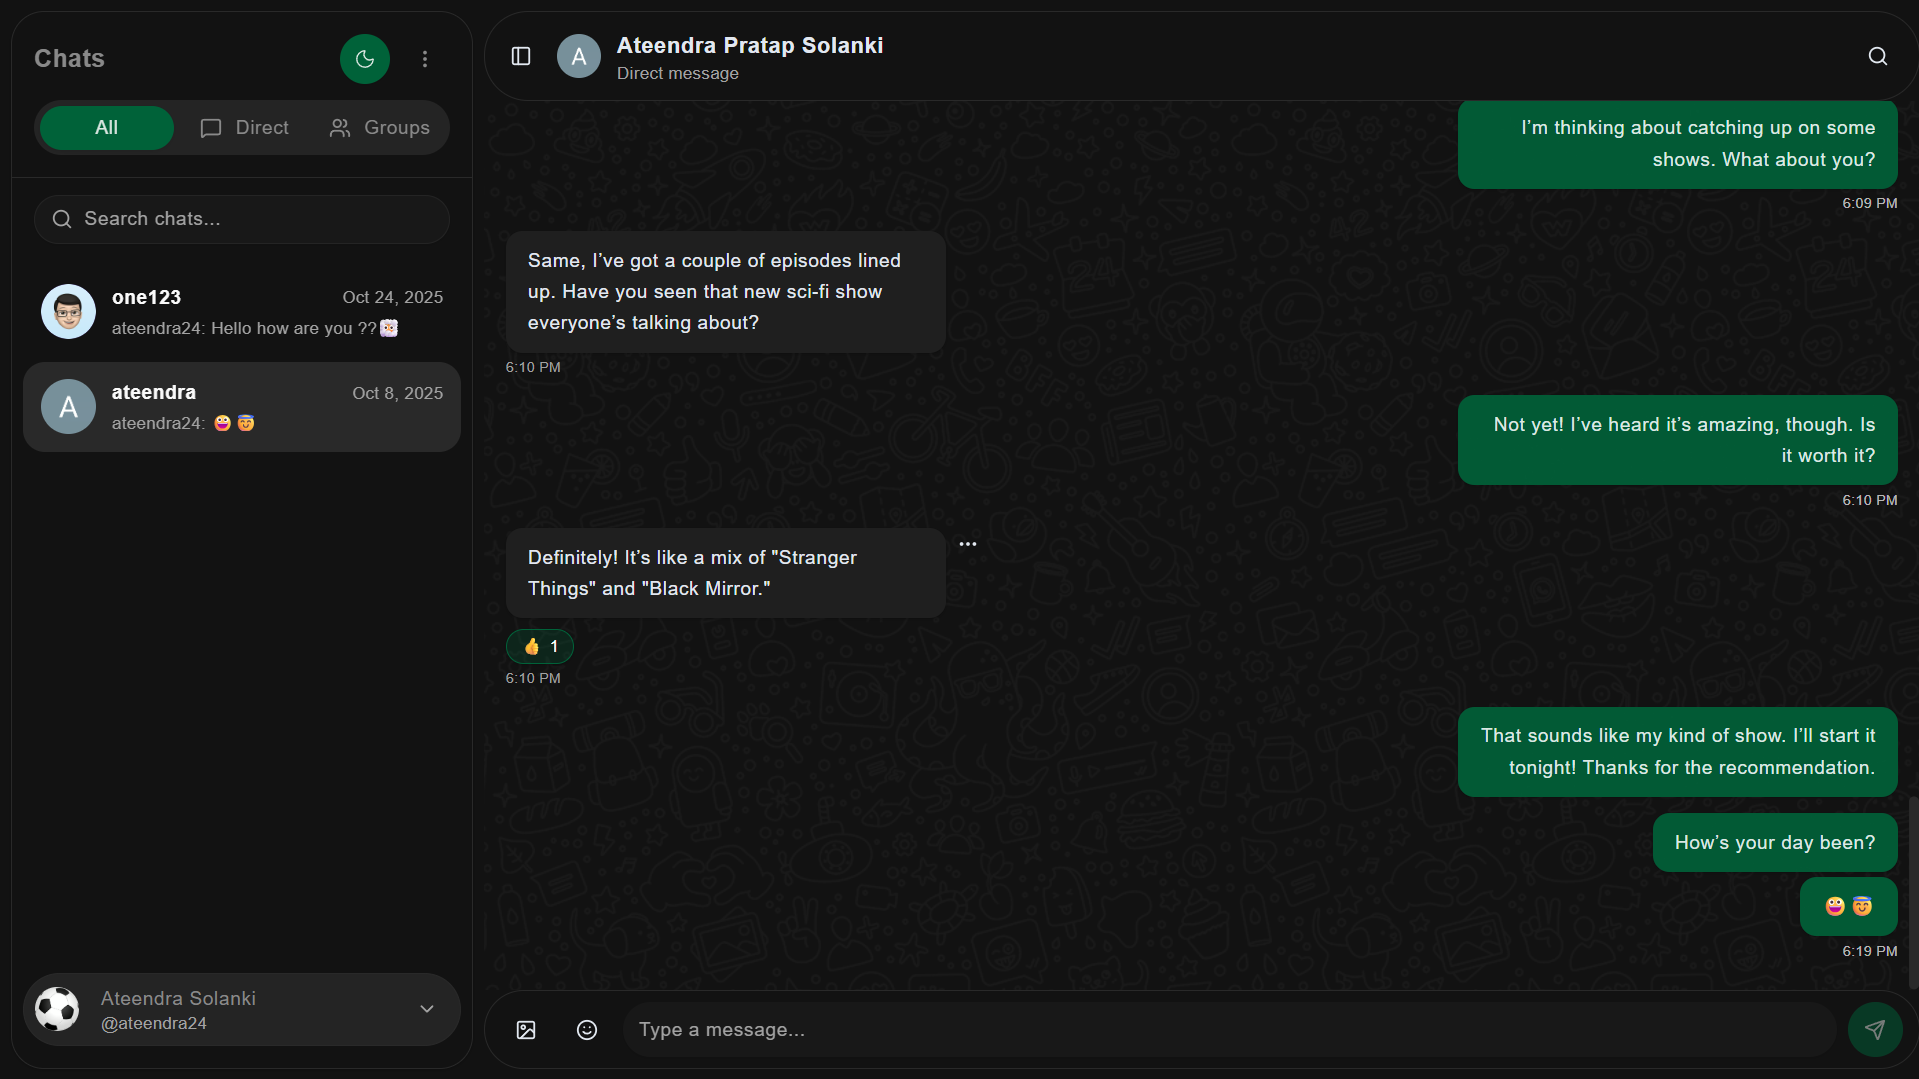
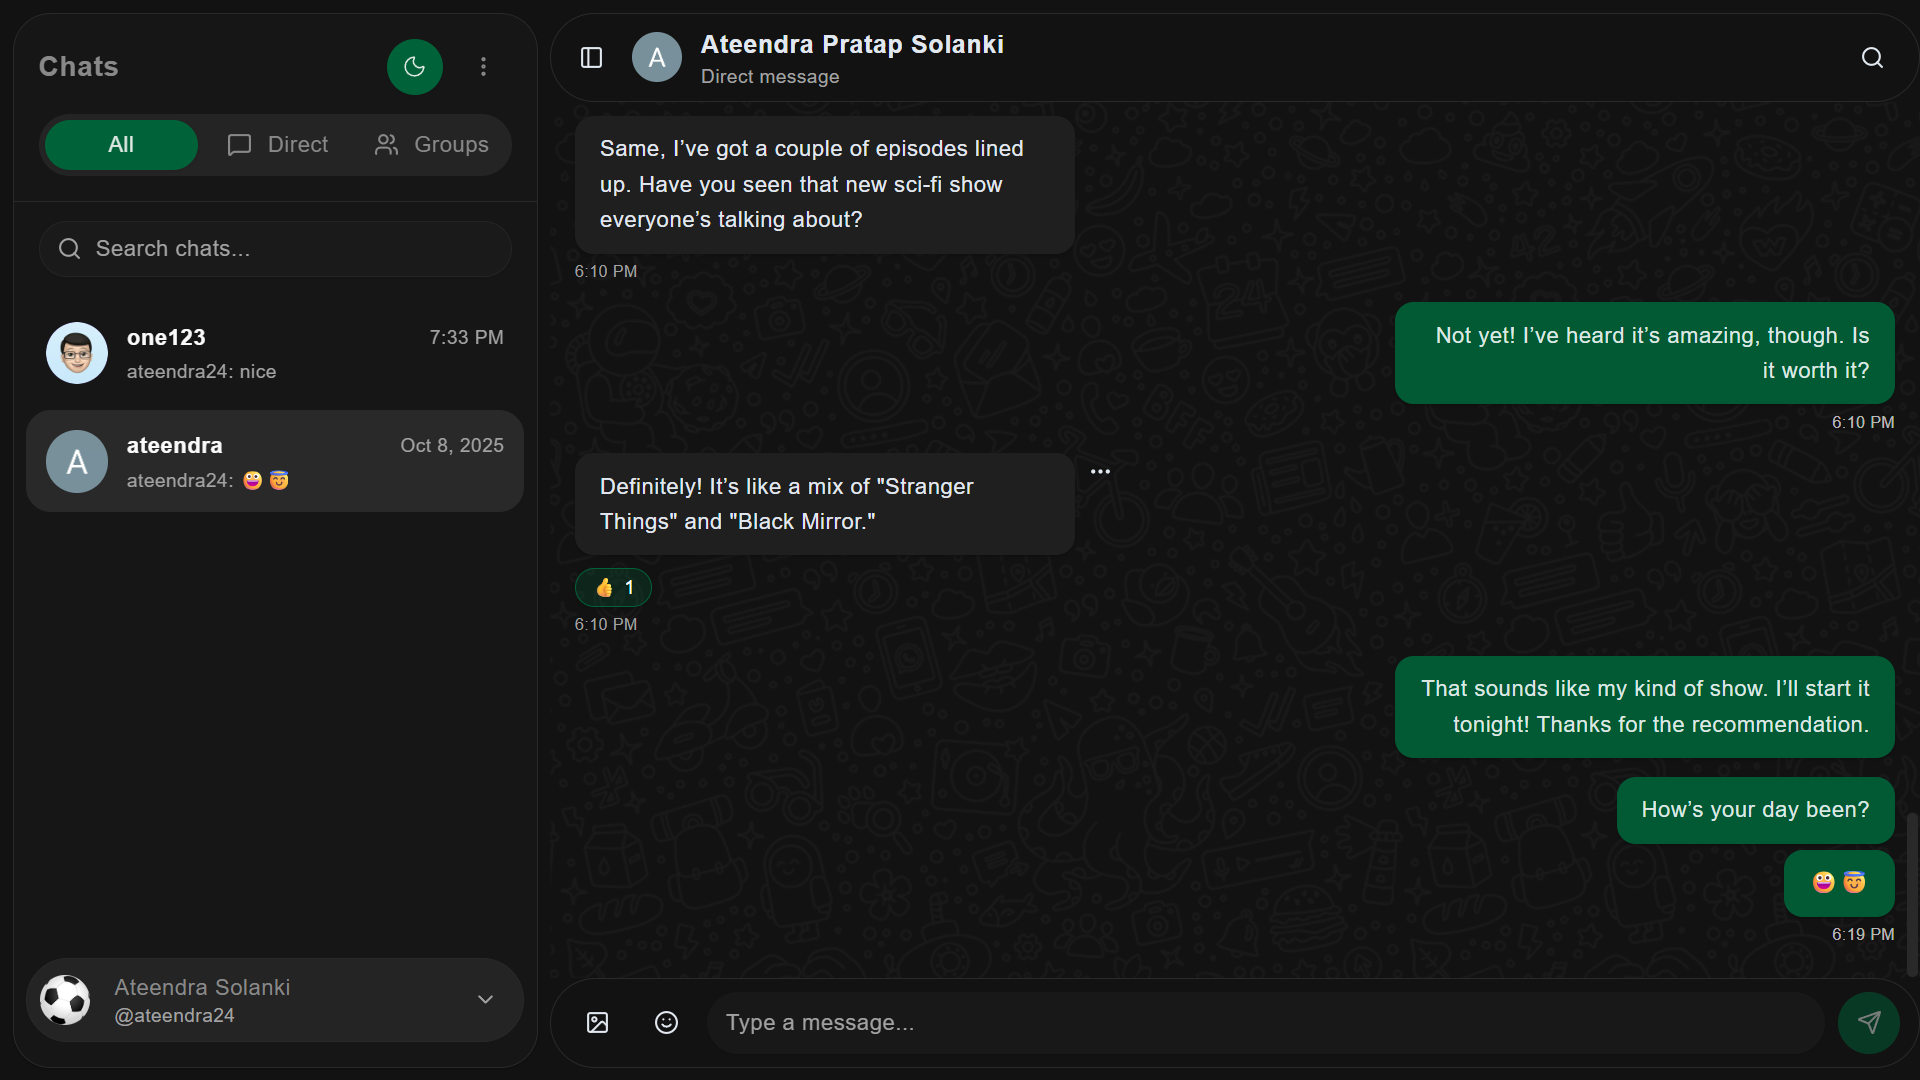
Refactor chat message handling: update last message caching logic, enhance message input styles, and remove unused database columns

diff --git a/src/app/api/messages/[messageId]/route.ts b/src/app/api/messages/[messageId]/route.ts
@@ -1,8 +1,8 @@
 import { NextRequest, NextResponse } from 'next/server';
 import { auth } from '@clerk/nextjs/server';
 import { db } from '@/db';
-import { messages, messageAttachments } from '@/db/schema';
-import { eq, and } from 'drizzle-orm';
+import { messages, messageAttachments, chats, users } from '@/db/schema';
+import { eq, and, desc } from 'drizzle-orm';
 import { del } from '@vercel/blob';
 
 // PUT /api/messages/[messageId] - Edit message
@@ -45,6 +45,25 @@ export async function PUT(
                 editedAt: new Date()
             })
             .where(eq(messages.id, messageId));
+
+        // Check if this is the last message and update chat cache
+        const chatId = message[0].chatId;
+        const chat = await db
+            .select({ lastMessageId: chats.lastMessageId })
+            .from(chats)
+            .where(eq(chats.id, chatId))
+            .limit(1);
+
+        // If the edited message is the last message, update the cache
+        if (chat.length > 0 && chat[0].lastMessageId === messageId) {
+            await db
+                .update(chats)
+                .set({
+                    lastMessageContent: content.trim(),
+                    updatedAt: new Date(),
+                })
+                .where(eq(chats.id, chatId));
+        }
 
         return NextResponse.json({ message: 'Message updated successfully' });
 
@@ -111,6 +130,64 @@ export async function DELETE(
                 content: 'This message has been deleted'
             })
             .where(eq(messages.id, messageId));
+
+        // Check if this was the last message and update chat cache
+        const chatId = message[0].chatId;
+        const chat = await db
+            .select({ lastMessageId: chats.lastMessageId })
+            .from(chats)
+            .where(eq(chats.id, chatId))
+            .limit(1);
+
+        // If the deleted message was the last message, find the new last message
+        if (chat.length > 0 && chat[0].lastMessageId === messageId) {
+            const newLastMessage = await db
+                .select({
+                    id: messages.id,
+                    content: messages.content,
+                    createdAt: messages.createdAt,
+                    userId: messages.userId,
+                    userName: users.username,
+                    userFullName: users.fullName,
+                })
+                .from(messages)
+                .innerJoin(users, eq(messages.userId, users.id))
+                .where(and(
+                    eq(messages.chatId, chatId),
+                    eq(messages.isDeleted, false)
+                ))
+                .orderBy(desc(messages.createdAt))
+                .limit(1);
+
+            if (newLastMessage.length > 0) {
+                // Update with new last message
+                const lastMsg = newLastMessage[0];
+                await db
+                    .update(chats)
+                    .set({
+                        lastMessageId: lastMsg.id,
+                        lastMessageAt: lastMsg.createdAt,
+                        lastMessageContent: lastMsg.content,
+                        lastMessageUserId: lastMsg.userId,
+                        lastMessageUserName: lastMsg.userFullName || lastMsg.userName || 'Unknown User',
+                        updatedAt: new Date(),
+                    })
+                    .where(eq(chats.id, chatId));
+            } else {
+                // No more messages, clear the last message cache
+                await db
+                    .update(chats)
+                    .set({
+                        lastMessageId: null,
+                        lastMessageAt: null,
+                        lastMessageContent: null,
+                        lastMessageUserId: null,
+                        lastMessageUserName: null,
+                        updatedAt: new Date(),
+                    })
+                    .where(eq(chats.id, chatId));
+            }
+        }
 
         return NextResponse.json({ message: 'Message deleted successfully' });
 

diff --git a/src/app/api/chats/route.ts b/src/app/api/chats/route.ts
@@ -73,6 +73,9 @@ export async function GET() {
         createdAt: chats.createdAt,
         updatedAt: chats.updatedAt,
         lastMessageAt: chats.lastMessageAt,
+        lastMessageContent: chats.lastMessageContent,
+        lastMessageUserId: chats.lastMessageUserId,
+        lastMessageUserName: chats.lastMessageUserName,
         messageCount: chats.messageCount,
         isActive: chats.isActive,
         role: chatParticipants.role,
@@ -87,28 +90,9 @@ export async function GET() {
       ))
       .orderBy(desc(chats.lastMessageAt));
 
-    // For each chat, get the last message and participant info
+    // For each chat, get participant info and calculate unread count
     const chatsWithDetails = await Promise.all(
       userChats.map(async (chat) => {
-        // Get last message
-        const lastMessage = await db
-          .select({
-            id: messages.id,
-            content: messages.content,
-            createdAt: messages.createdAt,
-            userId: messages.userId,
-            userName: users.username,
-            isDeleted: messages.isDeleted,
-          })
-          .from(messages)
-          .innerJoin(users, eq(messages.userId, users.id))
-          .where(and(
-            eq(messages.chatId, chat.id),
-            eq(messages.isDeleted, false)
-          ))
-          .orderBy(desc(messages.createdAt))
-          .limit(1);
-
         // Calculate unread messages count
         let unreadCount = 0;
         if (chat.lastReadMessageId) {
@@ -122,7 +106,7 @@ export async function GET() {
               sql`${messages.createdAt} > (SELECT created_at FROM messages WHERE id = ${chat.lastReadMessageId})`
             ));
           unreadCount = unreadMessages[0]?.count || 0;
-        } else {
+        } else if ((chat.messageCount || 0) > 0) {
           // If no last read message, count all messages
           const allMessages = await db
             .select({ count: sql<number>`count(*)`.as('count') })
@@ -176,11 +160,11 @@ export async function GET() {
           isAdmin: chat.role === 'admin' || chat.role === 'owner', // For backward compatibility
           isOwner: chat.role === 'owner',
           unreadCount,
-          lastMessage: lastMessage.length > 0 ? {
-            id: lastMessage[0].id,
-            content: lastMessage[0].content,
-            createdAt: lastMessage[0].createdAt,
-            userName: lastMessage[0].userName,
+          lastMessage: chat.lastMessageContent ? {
+            content: chat.lastMessageContent,
+            createdAt: chat.lastMessageAt,
+            userName: chat.lastMessageUserName,
+            userId: chat.lastMessageUserId,
           } : null,
         };
       })

diff --git a/src/app/api/chats/[chatId]/messages/route.ts b/src/app/api/chats/[chatId]/messages/route.ts
@@ -249,36 +249,27 @@ export async function POST(
 
         const userInfo = participantAndUser[0];
 
-        // Insert the new message and update chat in parallel for better performance
+        // Insert the new message
+        const [newMessage] = await db.insert(messages)
+            .values({
+                chatId,
+                userId,
+                content: content.trim(),
+                createdAt: new Date(),
+            })
+            .returning();
 
-        const [newMessage] = await Promise.all([
-            // Insert message
-            db.insert(messages)
-                .values({
-                    chatId,
-                    userId,
-                    content: content.trim(),
-                    createdAt: new Date(),
-                })
-                .returning()
-                .then(result => result[0]),
-
-            // Update chat metadata in parallel
-            db.update(chats)
-                .set({
-                    lastMessageAt: new Date(),
-                    messageCount: sql`${chats.messageCount} + 1`,
-                    updatedAt: new Date(),
-                })
-                .where(eq(chats.id, chatId))
-        ]);
-
-        console.log('Message inserted and chat updated:', newMessage);
-
-        // We'll update the lastMessageId separately after we have the message ID
-        await db
-            .update(chats)
-            .set({ lastMessageId: newMessage.id })
+        // Update chat metadata with cached last message data
+        await db.update(chats)
+            .set({
+                lastMessageId: newMessage.id,
+                lastMessageAt: newMessage.createdAt,
+                lastMessageContent: newMessage.content,
+                lastMessageUserId: userId,
+                lastMessageUserName: userInfo.fullName || userInfo.username || 'Unknown User',
+                messageCount: sql`${chats.messageCount} + 1`,
+                updatedAt: new Date(),
+            })
             .where(eq(chats.id, chatId));
 
         const responseMessage = {

diff --git a/src/components/UserFooter.tsx b/src/components/UserFooter.tsx
@@ -268,10 +268,10 @@ function UserFooter() {
                             <ChevronDown className="h-4 w-4 text-muted-foreground mr-2" />
                         </div>
                     </DropdownMenuTrigger>
-                    <DropdownMenuContent className="w-56">
+                    <DropdownMenuContent className="w-56 rounded-2xl bg-card">
                         <DropdownMenuLabel>My Account</DropdownMenuLabel>
                         <DropdownMenuSeparator />
-                        <DropdownMenuItem className='cursor-pointer' onClick={() => {
+                        <DropdownMenuItem className='cursor-pointer rounded-xl' onClick={() => {
                             setShowProfileEdit(true);
                             // Reset form data when opening
                             setEditedName(user?.fullName || '');
@@ -283,7 +283,7 @@ function UserFooter() {
                             <span>Edit Profile</span>
                         </DropdownMenuItem>
                         {hasPassword && (
-                            <DropdownMenuItem className='cursor-pointer' onClick={() => {
+                            <DropdownMenuItem className='cursor-pointer rounded-xl' onClick={() => {
                                 setShowPasswordChange(true);
                                 setPasswordData({
                                     currentPassword: '',
@@ -301,7 +301,7 @@ function UserFooter() {
                                 <span>Change Password</span>
                             </DropdownMenuItem>
                         )}
-                        <DropdownMenuItem className='cursor-pointer hover:bg-destructive! hover:text-destructive-foreground!'>
+                        <DropdownMenuItem className='cursor-pointer hover:bg-destructive! hover:text-destructive-foreground!  rounded-xl'>
                             <LogOut className="mr-2 h-4 w-4 hover:text-destructive-foreground!" />
                             <SignOutButton>
                                 <div className="w-full text-left">

diff --git a/src/components/MessageInput.tsx b/src/components/MessageInput.tsx
@@ -212,7 +212,7 @@ export function MessageInput({
                 <Button
                     variant="ghost"
                     size="icon"
-                    className='rounded-full cursor-pointer hover:bg-primary/10 hover:scale-110 transition-all'
+                    className='rounded-full cursor-pointer hover:bg-primary/10'
                     onClick={() => fileInputRef.current?.click()}
                     disabled={uploading}
                     title="Upload image"
@@ -225,7 +225,7 @@ export function MessageInput({
                     ref={buttonRef}
                     variant="ghost"
                     size="icon"
-                    className='rounded-full cursor-pointer hover:bg-primary/10 hover:scale-110 transition-all'
+                    className='rounded-full cursor-pointer hover:bg-primary/10'
                     onClick={() => setShowEmojiPicker(!showEmojiPicker)}
                     disabled={uploading}
                 >

diff --git a/src/db/schema.ts b/src/db/schema.ts
@@ -29,6 +29,9 @@ export const chats = pgTable("chats", {
   createdBy: text("created_by").notNull().references(() => users.id),
   lastMessageId: uuid("last_message_id"),
   lastMessageAt: timestamp("last_message_at"),
+  lastMessageContent: text("last_message_content"), // Cached last message content
+  lastMessageUserId: text("last_message_user_id").references(() => users.id), // Cached last message sender
+  lastMessageUserName: varchar("last_message_user_name", { length: 100 }), // Cached sender name
   messageCount: integer("message_count").default(0),
   isActive: boolean("is_active").default(true),
   createdAt: timestamp("created_at").defaultNow().notNull(),
